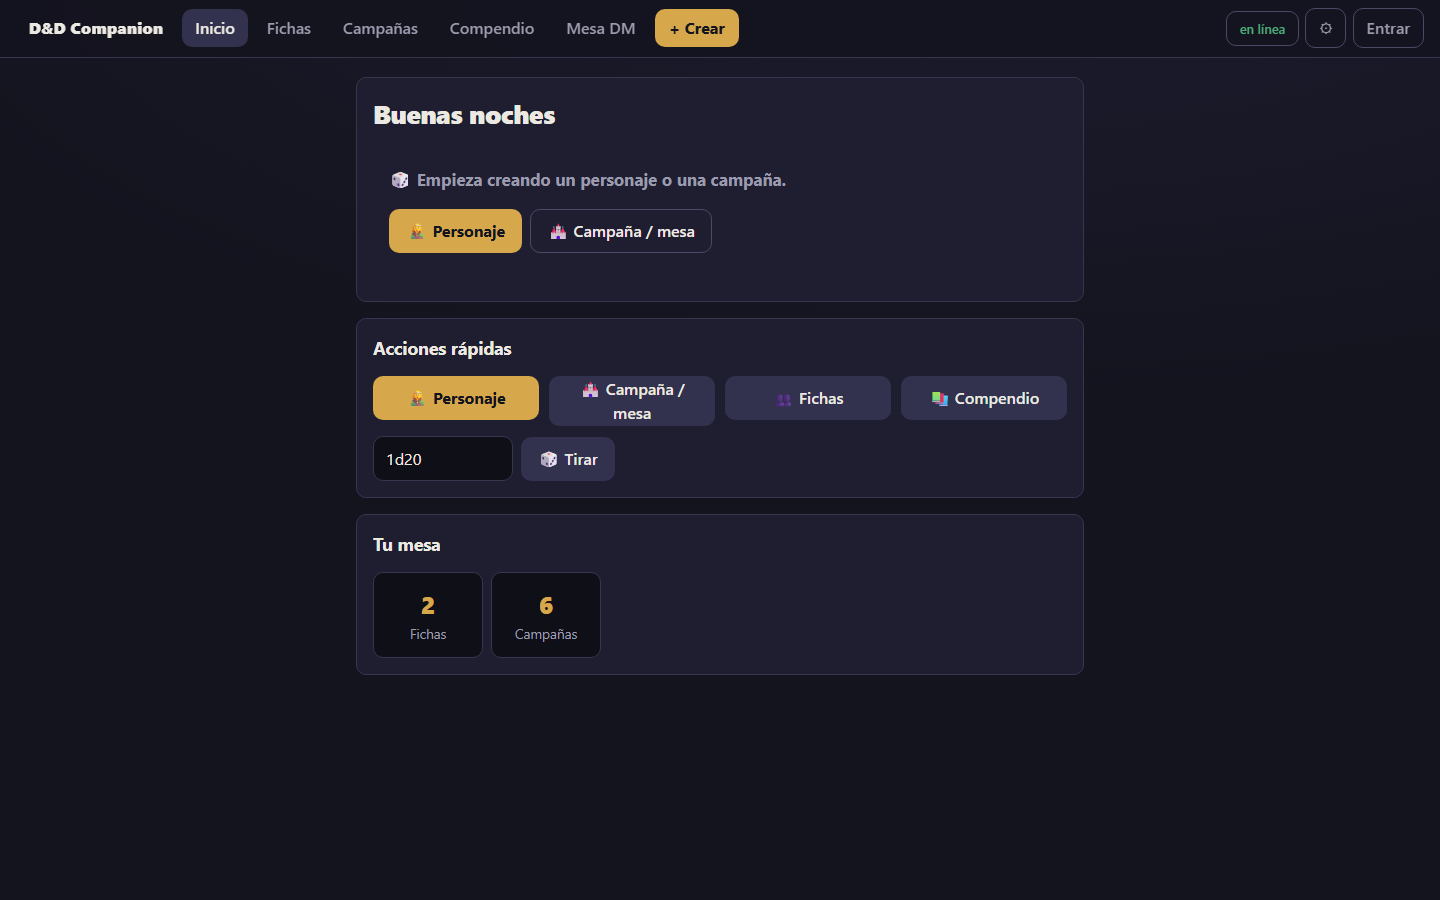
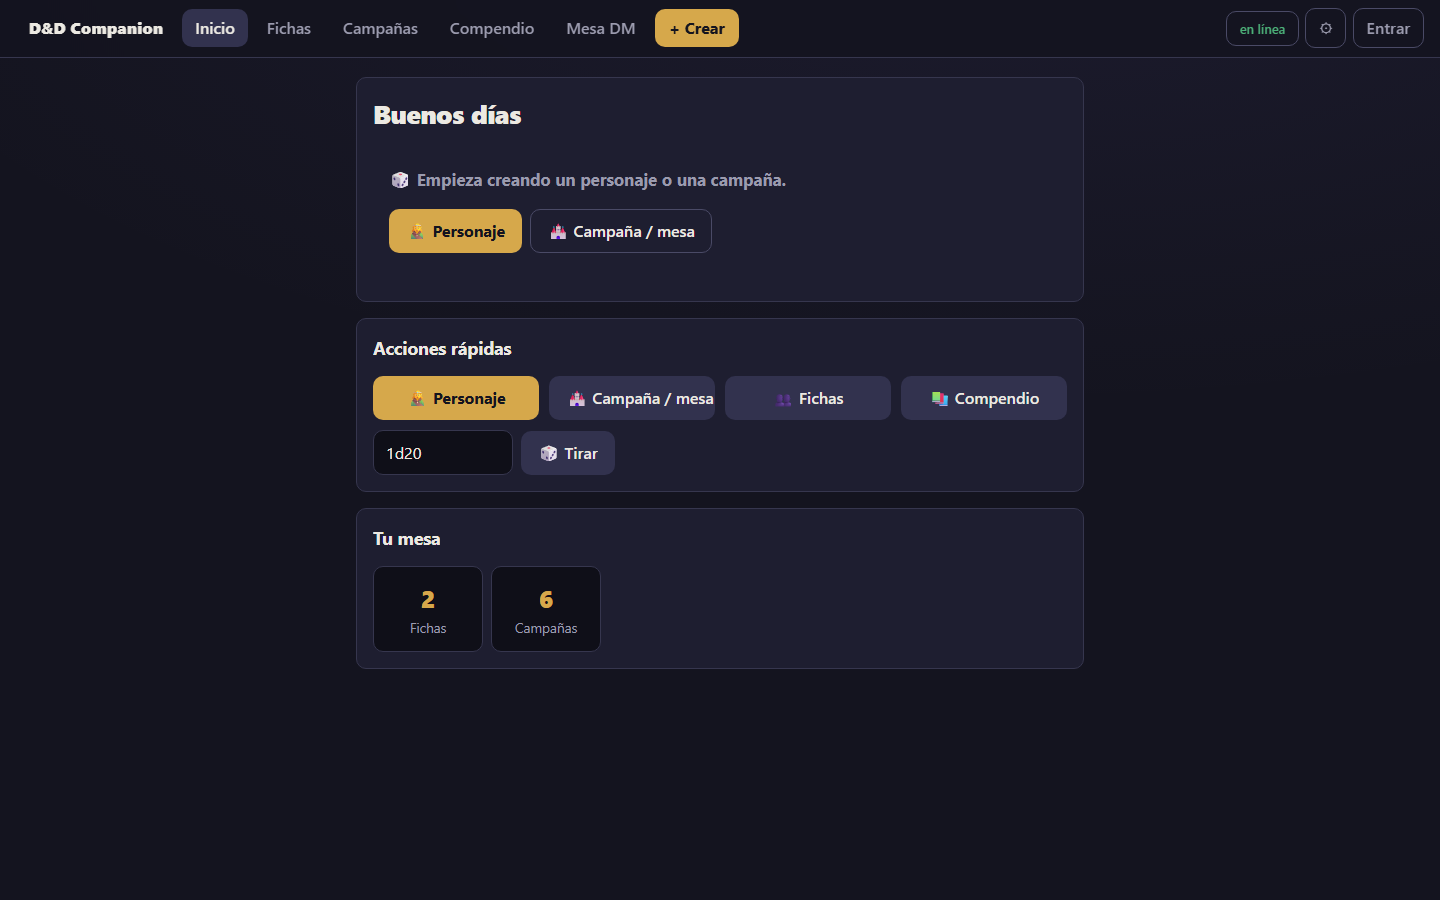
fix: compendio devuelve is_redistributable + nowrap en acciones rapidas
content.py /command incluia is_redistributable (la UI marcaba todo como 'contenido privado' incluido el SRD). index.css: .quick-grid button nowrap ('Campaña / mesa' rompia a 2 lineas). Recapturas compendium y home

Generated with [Devin](https://devin.ai) Co-Authored-By: Devin <158243242+devin-ai-integration[bot]@users.noreply.github.com>

diff --git a/frontend/src/index.css b/frontend/src/index.css
@@ -624,7 +624,9 @@ main.dm { max-width: 1440px; }
   grid-template-columns: repeat(auto-fit, minmax(160px, 1fr));
   gap: 0.6rem;
 }
-.quick-grid button { width: 100%; }
+/* nowrap: con la grid de 4 columnas "Campaña / mesa" se partía a
+   dos líneas y rompía la fila — los textos son cortos de sobra */
+.quick-grid button { width: 100%; white-space: nowrap; }
 
 /* biblioteca de personajes */
 .char-grid {
